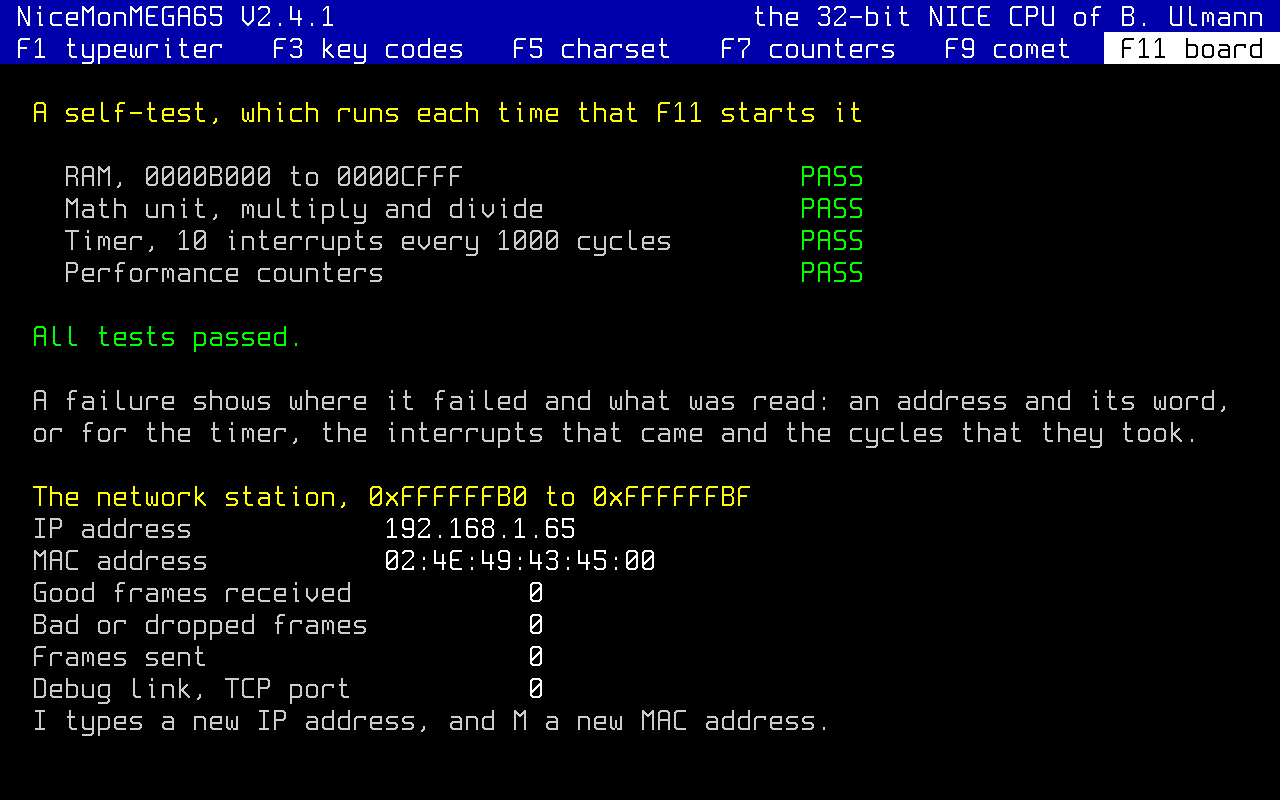
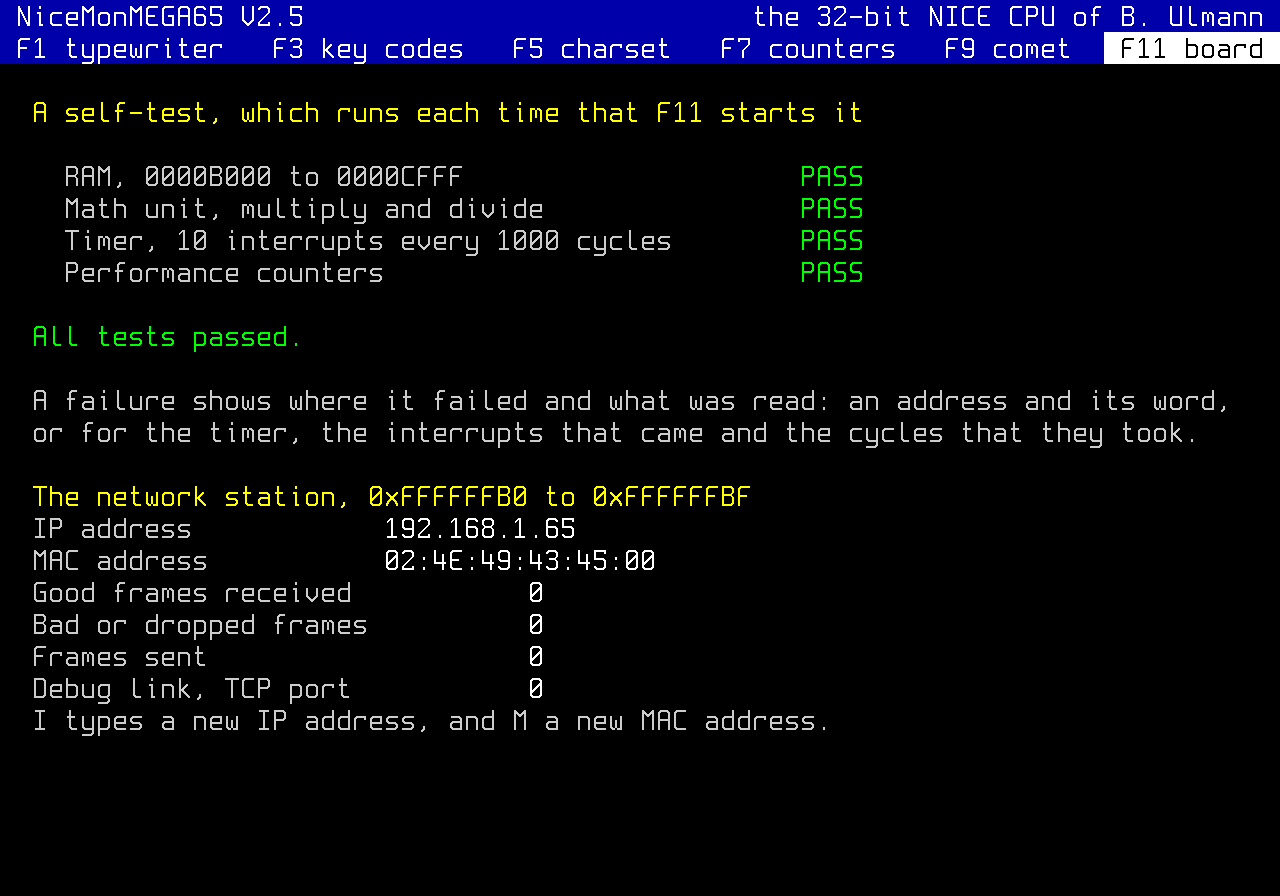
Date the notes of V2.5 and draw its pictures
The notes of V2.5 said unreleased, the example tags named V2.4, and
the README said that the BASIC files from V2.4 on fit every core from
V2.4 on, which the new screen layout of V2.5 ends. Date the notes,
name V2.5 in the examples, say which files fit which cores, and draw
the README's pictures with the tag, debugger.png at step 76814.

diff --git a/tools/screenshot.py b/tools/screenshot.py
@@ -26,7 +26,7 @@ The pictures of doc/images/ are made from the ROM of the release, the
 monitor and BASIC, and the demo at 0x8000 after it, all with its tag, and SYS 0x8000 and
 CR first, which start the demo:
 
-    make rom VERSION=V2.4.1 && make -C demo VERSION=V2.4.1
+    make rom VERSION=V2.5 && make -C demo VERSION=V2.5
     cat build/rom.bin demo/build/demo.bin > rom_demo.bin
     printf 'SYS 0x8000\\rHello from the NICE CPU on the MEGA65!\\r' > in.txt
     tools/screenshot.py -i in.txt -o doc/images/demo.png rom_demo.bin
@@ -40,7 +40,7 @@ doc/images/ethernet.png, the demo's F11, with:
 and doc/images/debugger.png, the typewriter paused under the strip once
 the line of the first in.txt is typed, with:
 
-    tools/screenshot.py -i in.txt -n 71922 --debugger \\
+    tools/screenshot.py -i in.txt -n 76814 --debugger \\
         -o doc/images/debugger.png rom_demo.bin
 
 Usage:

diff --git a/monitor/README.md b/monitor/README.md
@@ -205,7 +205,7 @@ program starts with none of the values that this one left there.
 | 34 | `44` | `clock_set` | R1 the seconds since 1970, R2 the microseconds. Sets the clock of the time of day, as `TIME` does, and on the MEGA65 the real-time clock too, in the years 2000 to 2099. → R1 0. Table 1.6. |
 | 35 | `46` | `net_servers` | R1 the word address of 2 words. Writes the DHCP server of the last exchange and the NTP server that DHCP gave to them, each 0 for none. → R1 0. Table 1.6. |
 | 36 | `48` | `mon_restore` | The state after a program, for a program that runs another, as `SYS` does: E, the timer, the FPU, VBASE, the font base, and the mode word cleared, the network closed, and the cursor shown and blinking where the program left its registers, with the display offset off. When the program left them elsewhere than `mon_putc` and `scr_moveto` had the cursor, it wrote the screen itself, and the word of `scr_links` is cleared. What is put next at a row's column 0 starts a line of its own, also where a wrap of the program's left the cursor, since V2.4.1. → R1 0. Table 1.6. |
-| 37 | `4A` | `mon_build` | → R1 the word address of the monitor's version, a packed text, four characters a word up to a 0 byte, such as `V2.4`, for BASIC's banner. Table 1.7. |
+| 37 | `4A` | `mon_build` | → R1 the word address of the monitor's version, a packed text, four characters a word up to a 0 byte, such as `V2.5`, for BASIC's banner. Table 1.7. |
 | 38 | `4C` | `con_key` | R1 the flags: bit 0 waits for a key, bit 1 shows an address that DHCP gets meanwhile, as BASIC's empty line does. → R1 the next byte of the console, or -1 when none waits and bit 0 is 0. While it waits, it keeps the network going, as `con_getline` does. Table 1.7. |
 | 39 | `4E` | `scr_back` | R1 a number of rows: the scrollback that many rows further back when it is above 0, forward when below 0, and the screen again when it is 0 or reaches the screen. → R1 the rows shown back now, 0 for the screen. Table 1.7. |
 | 40 | `50` | `fs_complete` | R1 the word address of a line, one character a word, R2 that of the cursor in it, and R3 that of the word after the last that the line may take. TAB on that line, as `con_getline` has it: completes the name of a file of the card's folder before the cursor, or lists the matches and shows the line again, up to the cursor. → R1 the new cursor. Table 1.7. |
@@ -401,7 +401,7 @@ sets serves both.
   list of stations shows it: the host name is `nicemon-` and the last
   three bytes of the MAC address, such as `nicemon-434506`, and the
   vendor class is `NiceMonMEGA65` and the monitor's version, such as
-  `NiceMonMEGA65 V2.4`. The transaction's number is the microsecond counter
+  `NiceMonMEGA65 V2.5`. The transaction's number is the microsecond counter
   at the start, XOR the low word of the MAC address. The lease is
   kept, and renewed while BASIC waits for a line, and by a
   program's polls while the network is on, as `net_poll` has it. A

diff --git a/README.md b/README.md
@@ -56,7 +56,7 @@ There are three ways to use the system:
 1. Download the core file for your board from the latest
    [release](https://github.com/MJoergen/NiceMonMEGA65/releases):
    `nicemon-TAG-r6.cor` for the R6, or `nicemon-TAG-r3.cor` for the R3
-   and R3A, where TAG is the release, such as `V2.4`. A core file holds
+   and R3A, where TAG is the release, such as `V2.5`. A core file holds
    its board revision, so use the one for yours.
 2. Copy it to the SD card, and hold No Scroll while you switch the MEGA65
    on. MEGAFLASH, the MEGA65's core menu, appears. Let it write the core
@@ -161,17 +161,18 @@ manager, while the core is held
 BASIC is the upper part of the ROM, and on the MEGA65 a card can bring
 a newer one, with no new core file. The Nexys4DDR's ROM takes no
 writes, so it always runs its bitstream's BASIC. A BASIC file fits
-only the cores of its own layout of the ROM: the files before V2.4
-fit the cores before V2.4, and those from V2.4 on fit the cores from
-V2.4 on. The monitor passes over a file that does not fit, and runs
+only the cores of its own layout of the ROM and the screen: the files
+before V2.4 fit the cores before V2.4, those of V2.4 and V2.4.1 fit
+the cores of V2.4 and V2.4.1, and those from V2.5 on fit the cores
+from V2.5 on. The monitor passes over a file that does not fit, and runs
 the BASIC of its core. Each release has its BASIC as a file of its
-own, such as `BASIC-V2.4.ROM`. To use it:
+own, such as `BASIC-V2.5.ROM`. To use it:
 
 1. Copy the file into the folder `NICE` of a card. Older ones may stay
    there, as the monitor takes the highest version.
 2. Switch the board off and on. The monitor loads the file and names
-   it, `BASIC-V2.4.ROM from card 0`, before the banner, which shows
-   both versions: `NiceMon V2.4, BASIC V2.4`.
+   it, `BASIC-V2.5.ROM from card 0`, before the banner, which shows
+   both versions: `NiceMon V2.5, BASIC V2.5`.
 
 The monitor checks the file first. One that fails, such as a file cut
 short, gets a line that says why, and the next highest version is
@@ -181,10 +182,10 @@ is switched on: the reset button and `SYS 0` keep the BASIC that runs.
 
 If a BASIC from a card hangs at its start, take the card out and
 switch the board off and on, so that the core's own BASIC runs. Then put
-the card back, and remove the file with `DELETE "BASIC-V2.4.ROM"`.
+the card back, and remove the file with `DELETE "BASIC-V2.5.ROM"`.
 
 Over the network, `tools/nicemon.py load --eth 192.168.1.65 --basic
-BASIC-V2.4.ROM` puts a BASIC into the ROM at once, until the board is
+BASIC-V2.5.ROM` puts a BASIC into the ROM at once, until the board is
 switched off ([tools/README.md](tools/README.md#loading-basic-into-the-rom)).
 
 A program reads and writes files through the monitor's routines

diff --git a/basic/README.md b/basic/README.md
@@ -147,7 +147,7 @@ fails, TAB does nothing.
 | `DUMP [A] [, N]` | Shows `N` words from `A`, 4 to a row with the row's address first, all in hex. Without `A`, the words after the last shown; without `N`, 32 words. |
 | `DIS [A] [, N]` | Disassembles `N` instructions from `A`, a row each: the address, the instruction's 1 to 4 words, and its text, all in hex (The disassembler below). Without `A`, the instructions after the last shown; without `N`, 20. |
 | `CLS` | Clears the screen. |
-| `VER` | The versions of the monitor and of BASIC, and of the dispatch table: `NiceMon V2.4, BASIC V2.4, dispatch table 1.8`. |
+| `VER` | The versions of the monitor and of BASIC, and of the dispatch table: `NiceMon V2.5, BASIC V2.5, dispatch table 1.8`. |
 | `IP ["A.B.C.D"]` | Shows the Ethernet station's IP address, `IP address 192.168.1.65`, or writes it first: four decimal numbers of 0 to 255 with dots between them, such as `IP "192.168.1.65"`. Anything else is no address, and `IP` says so and writes nothing. It sets the address with `net_set`, with no mask, no gateway, and no DNS server, and writes `0xFFFFFFB0`, `NET_IP` ([SYSTEM.md](../doc/SYSTEM.md#the-ethernet-station)), when the address is another, so a host connected over TCP loses its connection; the same address again changes nothing there. In `niceemu` it is a register that keeps what is written. |
 | `DHCP` | Gets the IP address from the network's DHCP server and writes it, as `IP` does, then shows it, with the mask, the gateway, the DNS server, the DHCP server, and the NTP server, if it gives one, a line each ([The network](../monitor/README.md#the-network)). Without an answer, it prints `No answer from a DHCP server` after about 8 seconds, and leaves the address as it was. |
 | `MAC ["MAC"]` | Shows the station's MAC address, `MAC address 02:4E:49:43:45:06`, or writes it first: six bytes of one or two hex digits, in either case, with colons between them, such as `MAC "02:4E:49:43:45:01"`. The first byte must be even, as an odd one makes a group address. Anything else, an empty string too, is no address, and `MAC` says so and writes nothing. It writes `0xFFFFFFB1` and `B2`, so a host connected over TCP loses its connection. Each kind of board has its own after reset: `02:4E:49:43:45:03` on the R3, `02:4E:49:43:45:06` on the R6, and `02:4E:49:43:45:0A` on the Nexys4DDR. Two boards of the same kind on one network need different MAC addresses. In `niceemu` they are registers too, `02:4E:49:43:45:00` after reset. |

diff --git a/CONTRIBUTING.md b/CONTRIBUTING.md
@@ -868,7 +868,7 @@ bitstream that reads the flash, into the FPGA. The R3 and R3A have an
 S25FL256S, and the R4, R5, and R6 an S25FL512S. It stops unless the chip
 is that of the bitstream's board. The bitstream names its board by its
 UserID, which `r3.xdc` and `r6.xdc` set, or else by its path (`synth/r3/`,
-`nicemon-V2.4-r3.bit`). A bitstream that names neither is programmed
+`nicemon-V2.5-r3.bit`). A bitstream that names neither is programmed
 with a note. `ARGS=--no-board-check` skips the check, for a board whose
 flash is not the usual one. When the check fails, the FPGA keeps the
 bridge, and the screen stays blank until the board is programmed.

diff --git a/monitor/INTERNALS.md b/monitor/INTERNALS.md
@@ -299,7 +299,7 @@ ROM is built:
   the version always ends with a `.DAT 0`, as the Makefile does not
   count its characters.
 - The version is that of the tests, `V9.9`, so that the tables do not
-  change with every commit. A release's version, such as `V2.4`, has
+  change with every commit. A release's version, such as `V2.5`, has
   as many words.
 
 ### Keeping the tables

diff --git a/doc/RELEASE_NOTES.md b/doc/RELEASE_NOTES.md
@@ -21,7 +21,7 @@ The release candidates pinned these:
 
 nice_cpu's `RC01` and `RC03` have no tag here.
 
-## V2.5 (unreleased)
+## V2.5 (2026-11-22)
 
 **Upgrade notes.**
 
